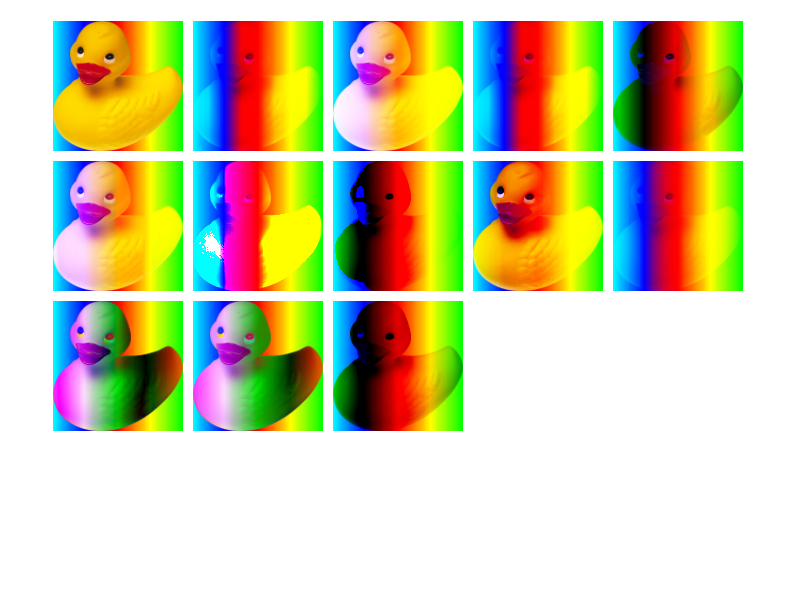
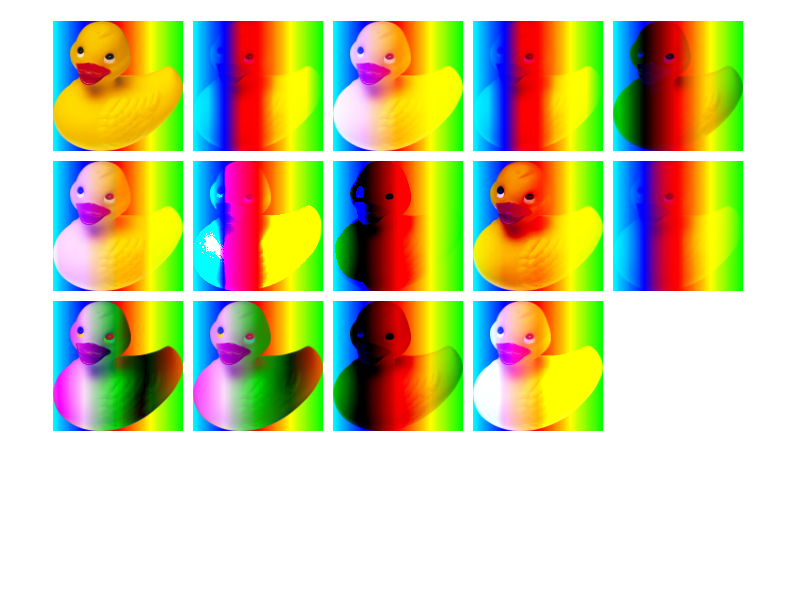
Support "plus-lighter" in mix-blend mode https://bugs.webkit.org/show_bug.cgi?id=142416 <rdar://problem/19993979>
Reviewed by Darin Adler and Sam Weinig.

Source/WebCore:

Support the "plus-lighter" blending mode to CSS.
See my reply to: https://lists.w3.org/Archives/Public/public-fx/2015JanMar/0021.html

Test: css3/blending/svg-blend-plus-lighter.html

* css/CSSParser.cpp:
(WebCore::isValidKeywordPropertyAndValue): mix-blend-mode can now accept the
new keyword.
* css/CSSPrimitiveValueMappings.h: Add the mappings to/from the GraphicsType.
(WebCore::CSSPrimitiveValue::CSSPrimitiveValue):
(WebCore::CSSPrimitiveValue::operator BlendMode):
* css/CSSValueKeywords.in: Add comment to show plus-darker and plus-lighter
are available.
* platform/graphics/GraphicsTypes.cpp: New GraphicsType for PlusLighter.
* platform/graphics/GraphicsTypes.h:
* platform/graphics/ca/mac/PlatformCAFiltersMac.mm: Map to the CA filter.
(PlatformCAFilters::setBlendingFiltersOnLayer):
* platform/graphics/cg/GraphicsContextCG.cpp:
(WebCore::GraphicsContext::setPlatformCompositeOperation): Map to the CG
blending flag.

Source/WebKit2:

Output the appropriate blending type when logging.

* Shared/mac/RemoteLayerTreeTransaction.mm:
(WebKit::RemoteLayerTreeTextStream::operator<<):

LayoutTests:

Add tests and new expected results for plus-lighter.

* css3/blending/blend-mode-property-parsing-expected.txt:
* css3/blending/blend-mode-simple-composited.html:
* css3/blending/blend-mode-simple.html:
* css3/blending/script-tests/blend-mode-property-parsing.js:
* css3/blending/svg-blend-plus-lighter.html: Added.
[…]

Changed region(s): [[0.5938, 0.48, 0.7812, 0.72]]

diff --git a/LayoutTests/css3/blending/svg-blend-plus-lighter.html b/LayoutTests/css3/blending/svg-blend-plus-lighter.html
@@ -1,0 +1,20 @@
+<!DOCTYPE HTML>
+<html>
+<body>
+<svg xmlns="http://www.w3.org/2000/svg" version="1.1" width="400px" height="400px" >
+<defs>
+  <g id="patch">
+    <rect x="0" y="0" width="10" height="40" fill="rgb(255,0,0)"/>
+    <rect x="10" y="0" width="10" height="40" fill="rgb(0,255,0)"/>
+    <rect x="20" y="0" width="10" height="40" fill="rgb(0,0,255)"/>
+    <rect x="30" y="0" width="10" height="40" fill="rgb(127,127,0)"/>
+  </g>
+  <rect x="0" y="0" width="10" height="10" fill="rgb(255,0,0)"/>
+</defs>
+<g transform="scale(4 4)">
+  <use xlink:href="#patch" x="0" y="0" width="40" height="10"></use>
+  <use xlink:href="#patch" x="0" y="0" width="40" height="10" transform="rotate(90 20 20)" style="mix-blend-mode: plus-lighter"></use>
+</g>
+</svg>
+</body>
+</html>

diff --git a/LayoutTests/css3/blending/script-tests/blend-mode-property-parsing.js b/LayoutTests/css3/blending/script-tests/blend-mode-property-parsing.js
@@ -43,7 +43,7 @@ function testBlendModeRule(description, rule, expectedLength, expectedValue, exp
     shouldBeType("blendModeRule", "CSSPrimitiveValue");
 }
 
-var blendmodes = ["normal", "multiply", "screen", "overlay", "darken", "lighten", "color-dodge", "color-burn", "hard-light", "soft-light", "difference", "exclusion", "plus-darker"];
+var blendmodes = ["normal", "multiply", "screen", "overlay", "darken", "lighten", "color-dodge", "color-burn", "hard-light", "soft-light", "difference", "exclusion", "plus-darker", "plus-lighter"];
 
 for(x in blendmodes)
    testBlendModeRule("Basic reference", blendmodes[x], 1, blendmodes[x]);

diff --git a/LayoutTests/css3/blending/blend-mode-simple-composited.html b/LayoutTests/css3/blending/blend-mode-simple-composited.html
@@ -35,5 +35,6 @@
         <li><img style="mix-blend-mode: difference" src="resources/ducky.png"></li>
         <li><img style="mix-blend-mode: exclusion" src="resources/ducky.png"></li>
         <li><img style="mix-blend-mode: plus-darker" src="resources/ducky.png"></li>
+        <li><img style="mix-blend-mode: plus-lighter" src="resources/ducky.png"></li>
     </ul>
 </body>

diff --git a/LayoutTests/css3/blending/blend-mode-simple.html b/LayoutTests/css3/blending/blend-mode-simple.html
@@ -39,5 +39,6 @@
         <li><img style="mix-blend-mode: difference" src="resources/ducky.png"></li>
         <li><img style="mix-blend-mode: exclusion" src="resources/ducky.png"></li>
         <li><img style="mix-blend-mode: plus-darker" src="resources/ducky.png"></li>
+        <li><img style="mix-blend-mode: plus-lighter" src="resources/ducky.png"></li>
     </ul>
 </body>

diff --git a/Source/WebCore/css/CSSParser.cpp b/Source/WebCore/css/CSSParser.cpp
@@ -820,7 +820,7 @@ static inline bool isValidKeywordPropertyAndValue(CSSPropertyID propertyId, int 
         if (parserContext.isCSSCompositingEnabled && (valueID == CSSValueNormal || valueID == CSSValueMultiply || valueID == CSSValueScreen
             || valueID == CSSValueOverlay || valueID == CSSValueDarken || valueID == CSSValueLighten ||  valueID == CSSValueColorDodge
             || valueID == CSSValueColorBurn || valueID == CSSValueHardLight || valueID == CSSValueSoftLight || valueID == CSSValueDifference
-            || valueID == CSSValueExclusion || valueID == CSSValuePlusDarker))
+            || valueID == CSSValueExclusion || valueID == CSSValuePlusDarker || valueID == CSSValuePlusLighter))
             return true;
         break;
     case CSSPropertyIsolation:

diff --git a/Source/WebCore/css/CSSPrimitiveValueMappings.h b/Source/WebCore/css/CSSPrimitiveValueMappings.h
@@ -4118,6 +4118,9 @@ template<> inline CSSPrimitiveValue::CSSPrimitiveValue(BlendMode blendMode)
     case BlendModePlusDarker:
         m_value.valueID = CSSValuePlusDarker;
         break;
+    case BlendModePlusLighter:
+        m_value.valueID = CSSValuePlusLighter;
+        break;
     }
 }
 
@@ -4160,6 +4163,8 @@ template<> inline CSSPrimitiveValue::operator BlendMode() const
         return BlendModeLuminosity;
     case CSSValuePlusDarker:
         return BlendModePlusDarker;
+    case CSSValuePlusLighter:
+        return BlendModePlusLighter;
     default:
         break;
     }

diff --git a/Source/WebCore/platform/graphics/ca/mac/PlatformCAFiltersMac.mm b/Source/WebCore/platform/graphics/ca/mac/PlatformCAFiltersMac.mm
@@ -580,6 +580,9 @@ void PlatformCAFilters::setBlendingFiltersOnLayer(PlatformLayer* layer, const Bl
         case BlendModePlusDarker:
             filter = [CAFilter filterWithType:kCAFilterPlusD];
             break;
+        case BlendModePlusLighter:
+            filter = [CAFilter filterWithType:kCAFilterPlusL];
+            break;
         default:
             ASSERT_NOT_REACHED();
     }

diff --git a/Source/WebCore/platform/graphics/cg/GraphicsContextCG.cpp b/Source/WebCore/platform/graphics/cg/GraphicsContextCG.cpp
@@ -1537,6 +1537,9 @@ void GraphicsContext::setPlatformCompositeOperation(CompositeOperator mode, Blen
         case BlendModePlusDarker:
             target = kCGBlendModePlusDarker;
             break;
+        case BlendModePlusLighter:
+            target = kCGBlendModePlusLighter;
+            break;
         default:
             break;
         }

diff --git a/Source/WebKit2/Shared/mac/RemoteLayerTreeTransaction.mm b/Source/WebKit2/Shared/mac/RemoteLayerTreeTransaction.mm
@@ -848,6 +848,7 @@ RemoteLayerTreeTextStream& RemoteLayerTreeTextStream::operator<<(BlendMode blend
     case BlendModeColor: ts << "color"; break;
     case BlendModeLuminosity: ts << "luminosity"; break;
     case BlendModePlusDarker: ts << "plus-darker"; break;
+    case BlendModePlusLighter: ts << "plus-lighter"; break;
     }
     return ts;
 }

diff --git a/Source/WebCore/platform/graphics/GraphicsTypes.cpp b/Source/WebCore/platform/graphics/GraphicsTypes.cpp
@@ -66,7 +66,8 @@ static const char* const blendOperatorNames[] = {
     "saturation",
     "color",
     "luminosity",
-    "plus-darker"
+    "plus-darker",
+    "plus-lighter"
 };
 const int numCompositeOperatorNames = WTF_ARRAY_LENGTH(compositeOperatorNames);
 const int numBlendOperatorNames = WTF_ARRAY_LENGTH(blendOperatorNames);

diff --git a/Source/WebCore/platform/graphics/GraphicsTypes.h b/Source/WebCore/platform/graphics/GraphicsTypes.h
@@ -64,7 +64,8 @@ namespace WebCore {
         BlendModeSaturation,
         BlendModeColor,
         BlendModeLuminosity,
-        BlendModePlusDarker
+        BlendModePlusDarker,
+        BlendModePlusLighter
     };
 
     enum GradientSpreadMethod {
